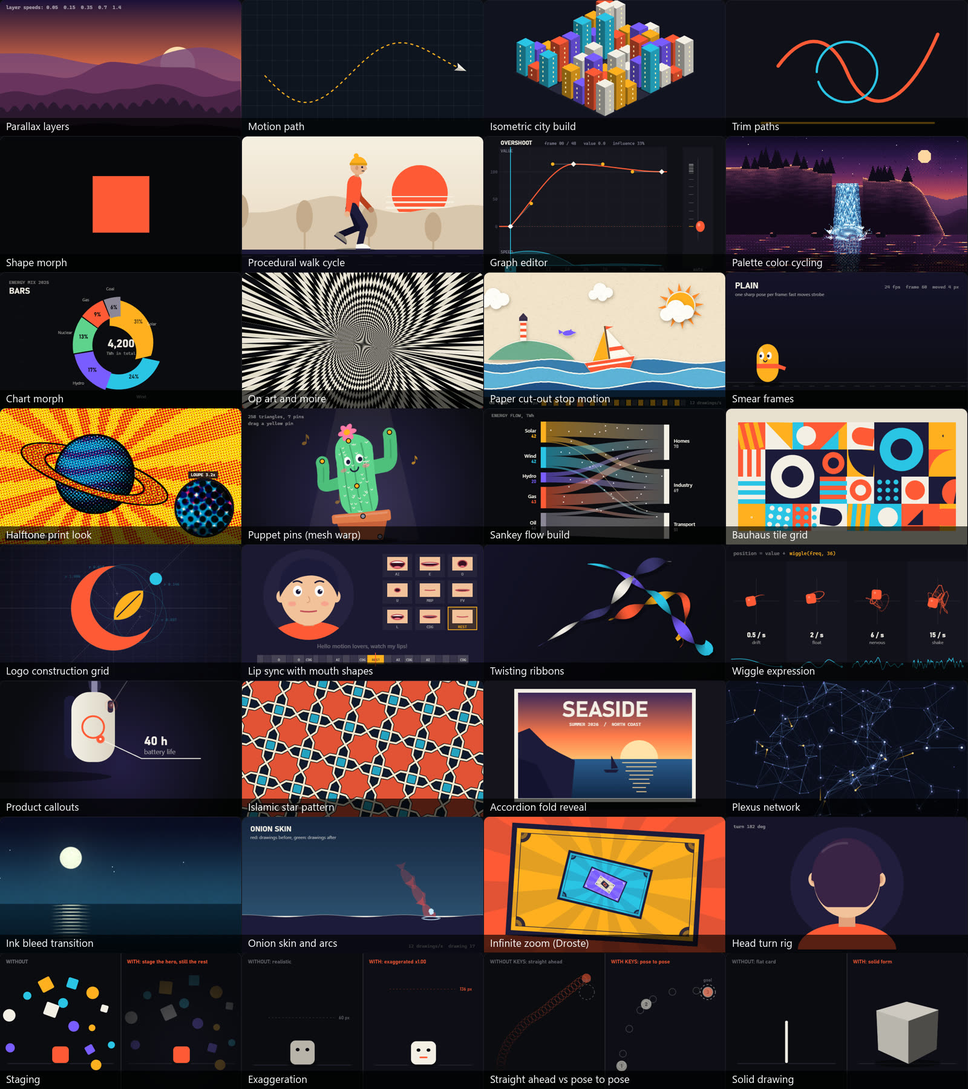
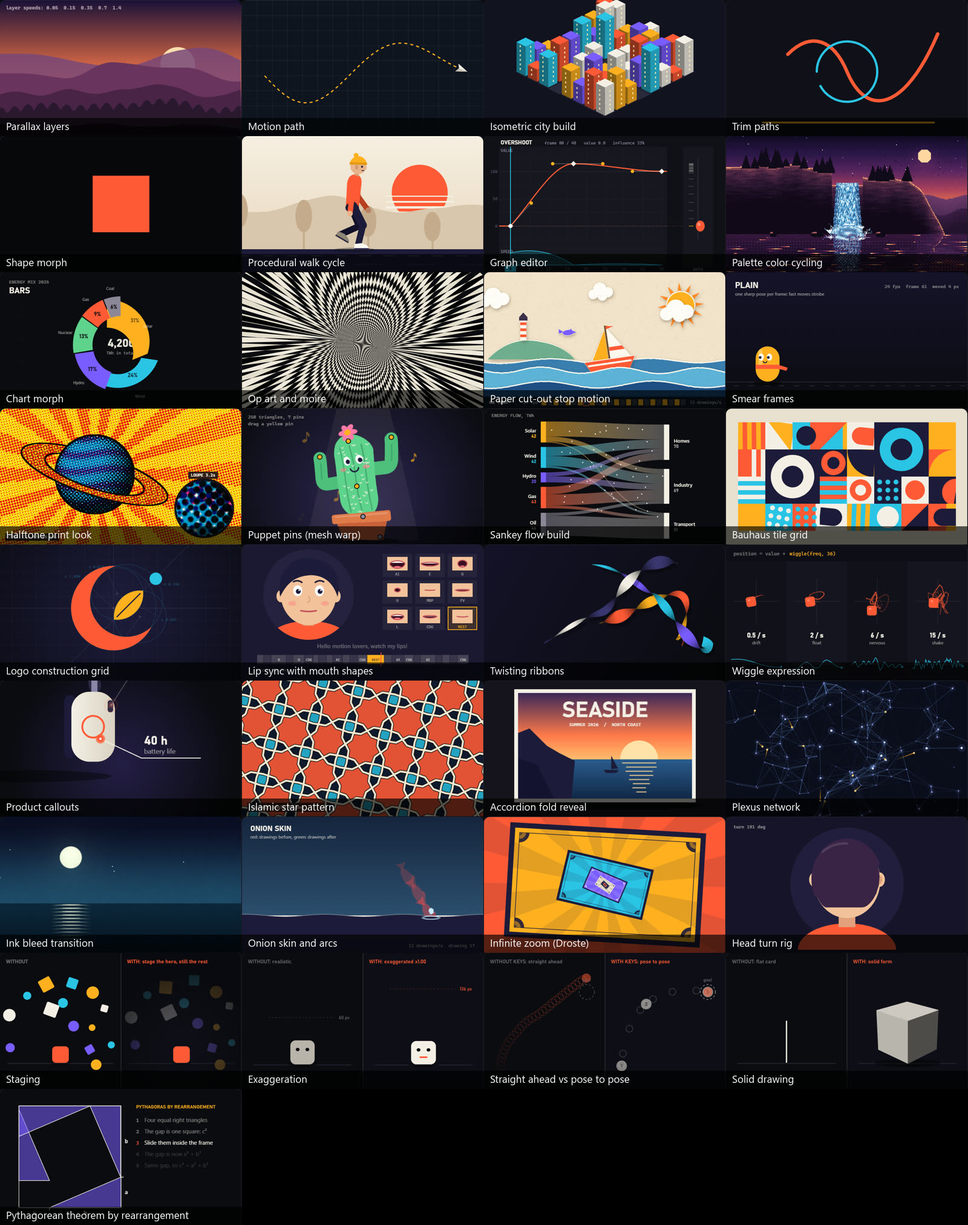
fix: audit the second set and add four more techniques
An audit of the second set found sound that kept playing off screen,
a listener leak on Replay, docs that missed the new principle cards,
and build output in source/scratch that git would pick up.

- Raw-sample synth and plucked-string cards stop and suspend their
  audio when they scroll out of view
- Ripple tank uses pointer capture instead of adding a window
  listener on every Replay
- New cards: Pythagorean proof by rearrangement, rotozoomer, dragon
  curve unfolding, Strandbeest leg linkage (332 techniques in total)
- README vocabulary lists staging, exaggeration, pose to pose and
  solid drawing, and the With vs without section links their cards
- .gitignore covers Rust and Go build output and renders in
  source/scratch, and the ruff cache

Checks: build_catalog, check_site (332 cards), tsc with zero errors,
ruff, and a runtime audit of 181 live cards for listener leaks, CPU
per frame and sound after Replay and scrolling away.

diff --git a/site/catalog/set3-mech.js b/site/catalog/set3-mech.js
@@ -1,0 +1,83 @@
+// Mechanisms in motion, solved by real kinematics (Canvas 2D, CPU).
+(function () {
+  const { C } = EX;
+  const W = 640, H = 360;
+
+  EX.add({
+    cat: 'sim', id: 'mc-strandbeest', title: 'Strandbeest leg linkage', aka: 'Theo Jansen linkage, holy numbers, walking mechanism, eleven-bar linkage', tool: 'Canvas 2D + circle-intersection kinematics', runs: 'CPU',
+    notice: 'One crank turns and two mirrored legs walk, using the lengths Theo Jansen found for his beach animals. Each joint is solved every frame as the crossing point of two circles, so nothing is keyframed. The coral curve is the true foot path: flat along the ground, then a lifted arc back.',
+    use: 'engineering explainers, kinetic art, robot and machine motion',
+    params: [{ key: 'speed', label: 'Crank speed', min: 0.1, max: 1.5, step: 0.05, value: 0.45, unit: ' rev/s' }, { key: 'crank', label: 'Crank length', min: 11, max: 17, step: 0.1, value: 15 }],
+    prompt: "A Theo Jansen Strandbeest leg linkage walking, solved with real kinematics from Jansen's holy numbers (crank length {crank}), the crank turning at {speed} rev/s, two mirrored legs plus a dim back pair, the foot path traced in coral, clean technical-illustration line style on a dark background.",
+    setup(stage, L) {
+      const g = stage.getContext('2d');
+      // Jansen's holy numbers (a, l, b, c, d, e, f, g, h, i, j, k); the crank length m comes from the slider.
+      const A = 38, LV = 7.8, LB = 41.5, LC = 39.3, LD = 40.1, LE = 55.8, LF = 39.4, LG = 36.7, LH = 65.7, LI = 49, LJ = 50, LK = 61.9;
+      const S = 2.4, OX = W / 2, OY = 112;
+      /** Both crossing points of circle (p, r1) and circle (q, r2). @returns {number[][]} */
+      const inter = (p, r1, q, r2) => {
+        const dx = q[0] - p[0], dy = q[1] - p[1], D = Math.hypot(dx, dy) || 1e-6, a = (r1 * r1 - r2 * r2 + D * D) / (2 * D);
+        const hh = Math.sqrt(Math.max(0, r1 * r1 - a * a)), mx = p[0] + a * dx / D, my = p[1] + a * dy / D;
+        return [[mx - hh * dy / D, my + hh * dx / D], [mx + hh * dy / D, my - hh * dx / D]];
+      };
+      const hi = s => (s[0][1] > s[1][1] ? s[0] : s[1]), lo = s => (s[0][1] < s[1][1] ? s[0] : s[1]), lf = s => (s[0][0] < s[1][0] ? s[0] : s[1]);
+      /** Solves one left-hand leg for crank angle th (y up, crank axle at the origin). */
+      const leg = (th, m) => {
+        const M = [m * Math.cos(th), m * Math.sin(th)], B = [-A, -LV];
+        const J = hi(inter(M, LJ, B, LB)), K = lo(inter(M, LK, B, LC)), E = lf(inter(B, LD, J, LE)), F = lf(inter(E, LF, K, LG)), P = lo(inter(F, LH, K, LI));
+        return { M, B, J, K, E, F, P };
+      };
+      /** Leg for crank angle th on side sx (-1 left, 1 right, mirrored about the axle). */
+      const legSide = (th, m, sx) => {
+        const q = leg(sx < 0 ? th : Math.PI - th, m);
+        if (sx > 0) for (const key in q) q[key] = [-q[key][0], q[key][1]];
+        return q;
+      };
+      const X = p => OX + p[0] * S, Y = p => OY - p[1] * S;
+      let th = 0, ground = 0, prevStance = null;
+      const drawLeg = (q, alpha, main) => {
+        g.globalAlpha = alpha;
+        g.fillStyle = 'rgba(43,196,230,0.12)';
+        for (const tri of [[q.B, q.J, q.E], [q.K, q.F, q.P]]) { g.beginPath(); tri.forEach((p, n) => (n ? g.lineTo(X(p), Y(p)) : g.moveTo(X(p), Y(p)))); g.closePath(); g.fill(); }
+        g.lineWidth = main ? 3 : 2; g.lineCap = 'round';
+        const bars = /** @type {[number[], number[], string][]} */ ([[q.M, q.J, C.amber], [q.M, q.K, C.amber], [q.B, q.J, C.cyan], [q.B, q.K, C.cyan], [q.B, q.E, C.cyan], [q.J, q.E, C.cyan], [q.E, q.F, C.cream], [q.K, q.F, C.cream], [q.F, q.P, C.cream], [q.K, q.P, C.cream]]);
+        for (const [p, r, col] of bars) { g.strokeStyle = col; g.beginPath(); g.moveTo(X(p), Y(p)); g.lineTo(X(r), Y(r)); g.stroke(); }
+        for (const p of [q.J, q.K, q.E, q.F]) { g.fillStyle = C.bg; g.strokeStyle = C.cream; g.lineWidth = 1.5; g.beginPath(); g.arc(X(p), Y(p), 3.5, 0, 7); g.fill(); g.stroke(); }
+        g.fillStyle = C.coral; g.beginPath(); g.arc(X(q.P), Y(q.P), main ? 5 : 4, 0, 7); g.fill();
+        g.globalAlpha = 1;
+      };
+      return (t, dt) => {
+        const m = L.p.crank;
+        th += Math.min(dt, 0.05) * L.p.speed * 2 * Math.PI;
+        g.fillStyle = C.bg; g.fillRect(0, 0, W, H);
+        // foot paths for the current crank length, and the ground under their lowest point
+        const path = []; let minY = 1e9;
+        for (let s = 0; s <= 180; s++) { const q = leg(s / 180 * 2 * Math.PI, m); path.push(q.P); minY = Math.min(minY, q.P[1]); }
+        const gy = Y([0, minY]) + 5;
+        // the stance foot is the lowest one: the ground moves with it, as if the machine walks
+        const legs = [[th + Math.PI, -1], [th + Math.PI, 1], [th, -1], [th, 1]].map(([a, sx]) => legSide(a, m, sx));
+        let st = 0; legs.forEach((q, n) => { if (q.P[1] < legs[st].P[1]) st = n; });
+        const sp = legs[st].P[0];
+        if (prevStance && prevStance[0] === st) ground += (sp - prevStance[1]) * S;
+        prevStance = [st, sp];
+        g.strokeStyle = 'rgba(244,239,230,0.35)'; g.lineWidth = 1.5; g.beginPath(); g.moveTo(0, gy); g.lineTo(W, gy); g.stroke();
+        g.strokeStyle = 'rgba(244,239,230,0.18)'; g.lineWidth = 1;
+        for (let x = ((ground % 24) + 24) % 24 - 24; x < W + 24; x += 24) { g.beginPath(); g.moveTo(x, gy); g.lineTo(x - 10, gy + 10); g.stroke(); }
+        g.setLineDash([4, 4]); g.strokeStyle = C.coral; g.lineWidth = 1.5;
+        for (const sx of [-1, 1]) { g.beginPath(); path.forEach((p, n) => { const px = OX + sx * p[0] * S, py = Y(p); n ? g.lineTo(px, py) : g.moveTo(px, py); }); g.stroke(); }
+        g.setLineDash([]);
+        drawLeg(legs[0], 0.3, false); drawLeg(legs[1], 0.3, false);
+        // frame: crank axle and the two fixed pivots
+        g.strokeStyle = C.violet; g.lineWidth = 4;
+        g.beginPath(); g.moveTo(X([-A, -LV]), Y([-A, -LV])); g.lineTo(X([0, 0]), Y([0, 0])); g.lineTo(X([A, -LV]), Y([A, -LV])); g.stroke();
+        g.strokeStyle = 'rgba(255,176,32,0.25)'; g.lineWidth = 1; g.beginPath(); g.arc(OX, OY, m * S, 0, 7); g.stroke();
+        drawLeg(legs[2], 1, true); drawLeg(legs[3], 1, true);
+        g.strokeStyle = C.amber; g.lineWidth = 4; g.beginPath(); g.moveTo(OX, OY); g.lineTo(X(legs[2].M), Y(legs[2].M)); g.stroke();
+        for (const p of [[-A, -LV], [A, -LV], [0, 0]]) { g.fillStyle = C.violet; g.beginPath(); g.arc(X(p), Y(p), 5, 0, 7); g.fill(); }
+        g.fillStyle = C.amber; g.beginPath(); g.arc(X(legs[2].M), Y(legs[2].M), 4, 0, 7); g.fill();
+        g.fillStyle = 'rgba(244,239,230,0.6)'; g.font = '12px ui-monospace, monospace';
+        g.fillText('crank ' + m.toFixed(1) + '   a 38  b 41.5  c 39.3  d 40.1  e 55.8  f 39.4  g 36.7  h 65.7  i 49  j 50  k 61.9', 14, 20);
+      };
+    },
+  });
+})();

diff --git a/site/catalog/set3-proofs.js b/site/catalog/set3-proofs.js
@@ -1,0 +1,78 @@
+// Visual math proofs in a calm explainer style (Canvas 2D, CPU).
+(function () {
+  const { C, seg, ease } = EX;
+  const W = 640, H = 360;
+  const SANS = '"Segoe UI", sans-serif', HEAD = 'Bahnschrift, "Segoe UI", sans-serif', MONO = '"Cascadia Mono", Consolas, monospace';
+  const fmt = v => String(Math.round(v * 100) / 100);
+
+  // Draws the numbered step list on the right; i is the active step.
+  function drawSteps(g, x, y, steps, i) {
+    g.textAlign = 'left'; g.textBaseline = 'middle';
+    steps.forEach((s, k) => {
+      g.globalAlpha = k === i ? 1 : k < i ? 0.5 : 0.18;
+      g.fillStyle = k === i ? C.coral : C.cream; g.font = '600 13px ' + MONO; g.fillText(String(k + 1), x, y + k * 30);
+      g.fillStyle = C.cream; g.font = '15px ' + SANS; g.fillText(s, x + 22, y + k * 30);
+    });
+    g.globalAlpha = 1;
+  }
+
+  EX.add({
+    cat: 'mg', id: 'vp-pythag', title: 'Pythagorean theorem by rearrangement', aka: 'visual proof, math explainer, a squared plus b squared, sliding triangles', tool: 'Canvas 2D', runs: 'CPU',
+    notice: 'Four copies of one right triangle sit in a square and leave a tilted gap of area c squared. The triangles slide to new spots inside the same frame, and the gap becomes two squares, a squared and b squared. The frame and the triangles never changed, so the two gaps are equal.',
+    use: 'math and science explainers, lesson intros, any "same parts, new arrangement" story',
+    params: [{ key: 'a', label: 'Leg a (b = 10 - a)', min: 1, max: 9, step: 0.5, value: 3 }],
+    prompt: 'A calm, 3Blue1Brown-style animated proof of the Pythagorean theorem on a near-black background: four equal right triangles (legs a = {a} and b = 10 - a) fill a square and leave a tilted c-squared gap, then slide one by one inside the same frame until the gap is an a-squared and a b-squared square. Numbered step captions on the right, soft colors, the equation with real numbers at the end, seamless loop.',
+    setup(cv, L) {
+      const g = cv.getContext('2d');
+      const S = 270, X0 = 50, Y0 = 45, P = 12;
+      const steps = ['Four equal right triangles', 'The gap is one square: c²', 'Slide them inside the frame', 'The gap is now a² + b²', 'Same gap, so c² = a² + b²'];
+      const px = (x, y) => [X0 + x, Y0 + S - y];
+      const poly = (pts, fill, stroke) => {
+        g.beginPath(); pts.forEach((p, i) => { const [x, y] = px(p[0], p[1]); i ? g.lineTo(x, y) : g.moveTo(x, y); }); g.closePath();
+        if (fill) { g.fillStyle = fill; g.fill(); } if (stroke) { g.strokeStyle = stroke; g.lineWidth = 1.5; g.stroke(); }
+      };
+      const label = (txt, x, y, col, size) => { const [sx, sy] = px(x, y); g.fillStyle = col; g.font = '600 ' + size + 'px ' + HEAD; g.textAlign = 'center'; g.textBaseline = 'middle'; g.fillText(txt, sx, sy); };
+      return (t) => {
+        const u = t % P, la = L.p.a, lb = 10 - la, a = la / 10 * S, b = S - a;
+        g.fillStyle = C.bg; g.fillRect(0, 0, W, H);
+        const fade = 1 - seg(u, 11, 11.8), cIn = seg(u, 1.2, 2) * (1 - seg(u, 3.2, 3.8)), abIn = seg(u, 6, 6.8);
+        g.globalAlpha = fade;
+        // gaps first, triangles on top
+        if (cIn > 0) { g.globalAlpha = fade * cIn; poly([[a, 0], [S, a], [b, S], [0, b]], 'rgba(43,196,230,0.35)', C.cyan); label('c²', S / 2, S / 2, C.cyan, 30); }
+        if (abIn > 0) {
+          g.globalAlpha = fade * abIn;
+          poly([[0, 0], [a, 0], [a, a], [0, a]], 'rgba(255,90,54,0.35)', C.coral); label('a²', a / 2, a / 2, C.coral, Math.max(14, Math.min(30, a * 0.4)));
+          poly([[a, a], [S, a], [S, S], [a, S]], 'rgba(255,176,32,0.3)', C.amber); label('b²', a + b / 2, a + b / 2, C.amber, Math.max(14, Math.min(30, b * 0.4)));
+        }
+        // the four triangles: corner, horizontal leg, vertical leg, shift to the second layout
+        const tris = [[0, 0, a, b, 0, a], [S, 0, -b, a, 0, 0], [S, S, -a, -b, -b, 0], [0, S, b, -a, a, -b]];
+        tris.forEach((d, i) => {
+          const m = ease.inOut(seg(u, 3.4 + i * 0.35, 4.6 + i * 0.35)), cx = d[0] + d[4] * m, cy = d[1] + d[5] * m;
+          g.globalAlpha = fade * seg(u, i * 0.2, i * 0.2 + 0.6);
+          poly([[cx, cy], [cx + d[2], cy], [cx, cy + d[3]]], 'rgba(122,92,255,0.55)', C.cream);
+        });
+        g.globalAlpha = fade;
+        g.strokeStyle = 'rgba(244,239,230,0.7)'; g.lineWidth = 2; g.strokeRect(X0, Y0, S, S);
+        // side labels: the bottom and right edges split into a and b in both layouts
+        g.globalAlpha = fade * 0.9;
+        label('a', a / 2, -14, C.cream, 16); label('b', a + b / 2, -14, C.cream, 16);
+        label('a', S + 14, a / 2, C.cream, 16); label('b', S + 14, a + b / 2, C.cream, 16);
+        g.fillStyle = C.cream; [[a, 0, 0], [S, a, 8]].forEach(q => { const [x, y] = px(q[0], q[1]); g.fillRect(x - 1, y - 1, q[2] ? 8 : 2, q[2] ? 2 : 8); });
+        if (u < 3.4) { g.globalAlpha = fade * seg(u, 0.6, 1.2) * (1 - seg(u, 3.0, 3.4)); label('c', a / 2 + 12, b / 2 + 12, C.cream, 16); }
+        // captions
+        g.globalAlpha = fade;
+        g.fillStyle = C.amber; g.font = '600 13px ' + HEAD; g.textAlign = 'left'; g.textBaseline = 'middle'; g.fillText('PYTHAGORAS BY REARRANGEMENT', 360, 48);
+        const si = u < 1.2 ? 0 : u < 3.3 ? 1 : u < 6 ? 2 : u < 8 ? 3 : 4;
+        g.save(); g.globalAlpha = fade; drawSteps(g, 360, 84, steps, si); g.restore();
+        const eq = seg(u, 8, 8.6) * fade;
+        if (eq > 0) {
+          g.globalAlpha = eq; g.fillStyle = C.cream; g.font = '15px ' + MONO; g.textAlign = 'left';
+          g.fillText('a = ' + fmt(la) + ', b = ' + fmt(lb), 360, 258);
+          g.fillStyle = C.cyan; g.fillText('c² = ' + fmt(la * la + lb * lb), 360, 286);
+          g.fillStyle = C.cream; g.fillText('   = ' + fmt(la * la) + ' + ' + fmt(lb * lb), 360, 310);
+        }
+        g.globalAlpha = 1;
+      };
+    },
+  });
+})();

diff --git a/site/catalog/set3-demoscene.js b/site/catalog/set3-demoscene.js
@@ -1,0 +1,50 @@
+// Demoscene effects written from scratch: 1990s screen tricks, each a pixel loop into a low-res
+// ImageData that is scaled up crisp. Every card keeps its whole effect in one setup().
+(function () {
+  const { C } = EX;
+  const W = 640, H = 360, RW = 320, RH = 180;
+  // Low-res buffer plus a scanline overlay; blit() scales the buffer to the stage with no smoothing.
+  const lowres = g => {
+    const oc = document.createElement('canvas'); oc.width = RW; oc.height = RH; const og = oc.getContext('2d');
+    const img = og.createImageData(RW, RH), px = new Uint32Array(img.data.buffer);
+    const sl = document.createElement('canvas'); sl.width = W; sl.height = H; const sg = sl.getContext('2d');
+    sg.fillStyle = 'rgba(0,0,0,0.22)'; for (let y = 1; y < H; y += 2) sg.fillRect(0, y, W, 1);
+    const blit = () => { og.putImageData(img, 0, 0); g.imageSmoothingEnabled = false; g.drawImage(oc, 0, 0, W, H); g.drawImage(sl, 0, 0); };
+    return { px, blit };
+  };
+
+  // ---------------- rotozoomer ----------------
+  EX.add({
+    cat: 'scratch', id: 'ds-rotozoom', title: 'Rotozoomer', aka: 'rotozoom, rotating zooming texture, affine texture mapping, Amiga and PC demo effect', tool: 'Plain JavaScript writing pixels into an ImageData (no WebGL)', runs: 'CPU',
+    notice: 'A small 128 x 128 tile spins and zooms across the whole screen with no 3D at all. For each screen pixel the code runs the rotation backwards to find which texel lands there, and since that mapping is linear, moving one pixel right just adds the same two numbers to the texture position. Wrapping the coordinates with a bit mask makes the tile repeat forever.',
+    use: 'retro intros and loading screens, music visuals, teaching affine transforms and inverse mapping',
+    params: [{ key: 'spin', label: 'Spin speed', min: 0, max: 3, step: 0.05, value: 1 }, { key: 'zoom', label: 'Zoom swing', min: 0, max: 2, step: 0.05, value: 1 }],
+    prompt: 'Write a classic demoscene rotozoomer from scratch in plain JavaScript: draw a seamless 128x128 tile once (navy checker, coral disc, amber ring, cream letters), then every frame fill a 320x180 ImageData by inverse mapping each screen pixel through a rotation and scale back into the tile, stepping the texture position by a constant per pixel and wrapping with a bit mask. Spin speed {spin}, zoom swing {zoom} (scale breathing in and out on a sine), a slow drifting center, scaled up 2x with no smoothing and faint scanlines.',
+    setup(cv, L) {
+      const g = cv.getContext('2d');
+      const { px, blit } = lowres(g);
+      // Tile: drawn once, read back as packed RGBA words. The checker period divides 128, so it wraps.
+      const TS = 128, tc = document.createElement('canvas'); tc.width = TS; tc.height = TS; const tg = tc.getContext('2d', { willReadFrequently: true });
+      for (let y = 0; y < TS; y += 16) for (let x = 0; x < TS; x += 16) { tg.fillStyle = ((x + y) / 16) & 1 ? '#2a2450' : C.navy; tg.fillRect(x, y, 16, 16); }
+      tg.fillStyle = C.cyan; for (const [x, y] of [[0, 0], [TS, 0], [0, TS], [TS, TS]]) { tg.beginPath(); tg.moveTo(x, y - 10); tg.lineTo(x + 10, y); tg.lineTo(x, y + 10); tg.lineTo(x - 10, y); tg.fill(); }
+      tg.fillStyle = C.coral; tg.beginPath(); tg.arc(64, 64, 38, 0, Math.PI * 2); tg.fill();
+      tg.strokeStyle = C.amber; tg.lineWidth = 6; tg.beginPath(); tg.arc(64, 64, 46, 0, Math.PI * 2); tg.stroke();
+      tg.fillStyle = C.cream; tg.font = '700 34px Bahnschrift, Segoe UI'; tg.textAlign = 'center'; tg.textBaseline = 'middle'; tg.fillText('MS', 64, 66);
+      const tex = new Uint32Array(tg.getImageData(0, 0, TS, TS).data.buffer);
+      const OFF = 1 << 20;   // keeps texture coordinates positive so |0 and the mask never flip at zero
+      let ang = 0;
+      return (t, dt) => {
+        ang += (dt || 0) * L.p.spin * 0.7;
+        const s = 0.18 + L.p.zoom * 0.55 * (1 + Math.sin(t * 0.6));   // texels per screen pixel
+        const ca = Math.cos(ang) * s, sa = Math.sin(ang) * s;
+        const cu = OFF + 64 + 220 * Math.sin(t * 0.21), cv2 = OFF + 64 + 160 * Math.sin(t * 0.17 + 1);
+        for (let y = 0, k = 0; y < RH; y++) {
+          const dy = y - RH / 2;
+          let u = cu - RW / 2 * ca - dy * sa, v = cv2 - RW / 2 * sa + dy * ca;
+          for (let x = 0; x < RW; x++, k++, u += ca, v += sa) px[k] = tex[((v | 0) & 127) << 7 | ((u | 0) & 127)];
+        }
+        blit();
+      };
+    },
+  });
+})();

diff --git a/site/catalog/set3-gen.js b/site/catalog/set3-gen.js
@@ -1,0 +1,52 @@
+// Generative-art classics for the catalog (Canvas 2D, CPU): the paper-folding dragon curve.
+(function () {
+  const { C } = EX;
+  const W = 640, H = 360;
+  const smooth = x => x * x * (3 - 2 * x);
+
+  EX.add({
+    cat: 'sim', id: 'gn-dragonfold', title: 'Dragon curve unfolding', aka: 'Heighway dragon, paper-folding curve, Jurassic Park fractal', tool: 'Canvas 2D', runs: 'CPU',
+    notice: 'Fold a strip of paper in half again and again, then open every fold to a right angle: you get the dragon curve. Here each step copies the whole line and swings the copy 90 degrees around its end point. Each color is one fold, and the camera zooms out to keep the growing curve in frame.',
+    use: 'fractal intros, math explainers, "one rule, repeated" stories',
+    params: [{ key: 'folds', label: 'Folds', min: 4, max: 14, step: 1, value: 12 }, { key: 'speed', label: 'Folds per second', min: 0.2, max: 3, step: 0.1, value: 1.2 }],
+    prompt: 'Heighway dragon curve that builds itself fold by fold: start from one line, then {folds} times copy the whole curve and swing the copy 90 degrees around its end point with an eased rotation, {speed} folds per second. Color each fold differently (coral, amber, cream, cyan, violet), zoom the camera out smoothly to keep the curve framed, hold, then repeat.',
+    setup(stage, L) {
+      const g = stage.getContext('2d'); const MAX = 14, n = 1 << MAX;
+      // the finished curve; after k folds the curve is exactly its first 2^k + 1 points
+      const px = new Float64Array(n + 1), py = new Float64Array(n + 1);
+      px[1] = 1;
+      for (let k = 0; k < MAX; k++) {
+        const m = 1 << k, ex = px[m], ey = py[m];
+        for (let j = 1; j <= m; j++) { const dx = px[m - j] - ex, dy = py[m - j] - ey; px[m + j] = ex - dy; py[m + j] = ey + dx; }
+      }
+      const cols = [C.coral, C.amber, C.cream, C.cyan, C.violet];
+      const qx = new Float64Array(n + 1), qy = new Float64Array(n + 1);
+      let clock = 0;
+      return (t, dt) => {
+        clock += dt * L.p.speed;
+        const folds = L.p.folds | 0, cyc = folds + 2.5, ph = clock % cyc;
+        let k = Math.floor(ph), th = Math.PI / 2 * smooth(ph - k);
+        if (k >= folds) { k = folds - 1; th = Math.PI / 2; }
+        const m = 1 << k, ex = px[m], ey = py[m], co = Math.cos(th), si = Math.sin(th);
+        let x0 = Infinity, x1 = -Infinity, y0 = Infinity, y1 = -Infinity;
+        for (let i = 0; i <= m; i++) { qx[i] = px[i]; qy[i] = py[i]; }
+        for (let j = 1; j <= m; j++) { const dx = px[m - j] - ex, dy = py[m - j] - ey; qx[m + j] = ex + dx * co - dy * si; qy[m + j] = ey + dx * si + dy * co; }
+        for (let i = 0; i <= 2 * m; i++) { const x = qx[i], y = qy[i]; if (x < x0) x0 = x; if (x > x1) x1 = x; if (y < y0) y0 = y; if (y > y1) y1 = y; }
+        const sc = Math.min((W - 80) / Math.max(1e-6, x1 - x0), (H - 70) / Math.max(1e-6, y1 - y0), 220);
+        const ox = W / 2 - (x0 + x1) / 2 * sc, oy = H / 2 + 6 - (y0 + y1) / 2 * sc;
+        g.fillStyle = C.bg; g.fillRect(0, 0, W, H);
+        g.lineCap = 'round'; g.lineJoin = 'round'; g.lineWidth = Math.max(1, Math.min(5, sc * 0.3));
+        // segments made by fold f are indices 2^f .. 2^(f+1) - 1, so each fold is one path
+        for (let f = -1; f <= k; f++) {
+          const a = f < 0 ? 0 : 1 << f, b = f < 0 ? 1 : 1 << (f + 1);
+          g.strokeStyle = cols[(f + 1) % cols.length]; g.beginPath(); g.moveTo(ox + qx[a] * sc, oy + qy[a] * sc);
+          for (let i = a + 1; i <= b; i++) g.lineTo(ox + qx[i] * sc, oy + qy[i] * sc);
+          g.stroke();
+        }
+        g.fillStyle = C.cream; g.beginPath(); g.arc(ox + ex * sc, oy + ey * sc, 4, 0, 6.283); g.fill();
+        g.font = '13px ui-monospace, monospace'; g.fillStyle = C.cream;
+        g.fillText('fold ' + (k + 1) + ' of ' + folds + '   ' + (2 * m) + ' segments', 16, 24);
+      };
+    },
+  });
+})();

diff --git a/index.html b/index.html
@@ -149,7 +149,7 @@
 
 <section class="sec" id="compare">
   <h2><span class="n">03</span>With vs without</h2>
-  <p class="lead">Each pair shows the same animation twice. Left: without the idea. Right: what changes when you put those words in your prompt.</p>
+  <p class="lead">Each pair shows the same animation twice. Left: without the idea. Right: what changes when you put those words in your prompt. Four more principles have their own with-vs-without cards in the catalog: <a href="#ex-p2-staging">staging</a>, <a href="#ex-p2-exaggeration">exaggeration</a>, <a href="#ex-p2-pose-to-pose">pose to pose</a> and <a href="#ex-p2-solid-drawing">solid drawing</a>.</p>
   <div class="cmpgrid">
     <div class="demo"><div class="head"><h3>Timing</h3><p class="dim">How long a move takes. Short feels snappy, long feels calm or heavy.</p></div><div class="stage"><canvas id="cmp-timing" width="960" height="240"></canvas></div><div class="foot"><div class="say">Snappy timing: 250 ms moves.</div></div></div>
     <div class="demo"><div class="head"><h3>Hold</h3><p class="dim">A pause where nothing moves, so people can read. Text needs about 1 second per 4 to 5 words. The bar shows in, hold and out.</p></div><div class="stage"><canvas id="cmp-hold" width="960" height="240"></canvas></div><div class="foot"><div class="say">Hold the title for 1.5 s before it exits.</div></div></div>
@@ -590,6 +590,10 @@ Music: 120 BPM, scene changes every 4 bars, impact on the ball hit. Test frames 
 <script src="site/catalog/scratch.js"></script>
 <script src="site/catalog/set2-webgpu.js"></script>
 <script src="site/catalog/set2-principles.js"></script>
+<script src="site/catalog/set3-proofs.js"></script>
+<script src="site/catalog/set3-demoscene.js"></script>
+<script src="site/catalog/set3-gen.js"></script>
+<script src="site/catalog/set3-mech.js"></script>
 <!-- LIBS-SCRIPTS-START -->
 <script src="site/vendor/three-demo.js"></script>
 <script src="site/vendor/pixi.min.js"></script>

diff --git a/site/catalog/scratch.js b/site/catalog/scratch.js
@@ -684,6 +684,8 @@
       };
       st.play = () => { if (!st.ac) st.ac = new AudioContext(); st.ac.resume(); start(0); };
       st.stop = () => { if (st.src) { st.src.stop(); st.src = null; } };
+      // The looping sound stops when the card scrolls out of view.
+      if (!cv.dataset.soundWatch) { cv.dataset.soundWatch = '1'; new IntersectionObserver(es => { if (!es[0].isIntersecting) { L.state.stop(); if (L.state.ac) L.state.ac.suspend(); } }).observe(cv); }
       const key = () => [L.p.cut, L.p.res, L.p.env, L.p.dec].join();
       let changedAt = -1, pend = '';
       render(); rendered = key();
@@ -1227,6 +1229,8 @@
       };
       st.play = () => { if (!st.ac) st.ac = new AudioContext(); st.ac.resume(); start(0); };
       st.stop = () => { if (st.src) { st.src.stop(); st.src = null; } };
+      // The looping sound stops when the card scrolls out of view.
+      if (!cv.dataset.soundWatch) { cv.dataset.soundWatch = '1'; new IntersectionObserver(es => { if (!es[0].isIntersecting) { L.state.stop(); if (L.state.ac) L.state.ac.suspend(); } }).observe(cv); }
       const key = () => L.p.decay + ',' + L.p.bright; let rendered = key(), pend = '', changedAt = 0; render();
       const COLS = [C.coral, C.amber, C.cream, C.cyan, C.violet, C.coral, C.amber, C.cyan], X0 = 96, X1 = 600;
       return t => {

diff --git a/site/catalog/set2-gpu2.js b/site/catalog/set2-gpu2.js
@@ -143,9 +143,9 @@
       const st = (L.state = { mode: 0, view: 0, set: m => { st.mode = m; G.draw(clear, pp.write); pp.swap(); G.draw(clear, pp.write); pp.swap(); G.draw(clear, en.write); en.swap(); G.draw(clear, en.write); en.swap(); } });
       let B = [70, 90 + 20], drag = false, ph = 0, acc = 0;
       const toGrid = e => { const r = cv.getBoundingClientRect(); return [EX.clamp01((e.clientX - r.left) / r.width) * SW, (1 - EX.clamp01((e.clientY - r.top) / r.height)) * SH]; };
-      cv.addEventListener('pointerdown', e => { if (st.mode !== 1) return; drag = true; B = toGrid(e); });
+      cv.addEventListener('pointerdown', e => { if (st.mode !== 1) return; drag = true; B = toGrid(e); cv.setPointerCapture(e.pointerId); });
       cv.addEventListener('pointermove', e => { if (drag) B = toGrid(e); });
-      window.addEventListener('pointerup', () => { drag = false; });
+      cv.addEventListener('pointerup', () => { drag = false; });
       st.set(0);
       return (t, dt) => {
         const geo = { uMode: st.mode, uSep: L.p.sep, uLam: L.p.lam, uB: drag || st.mode !== 1 ? B : [70 + Math.sin(t * 0.4) * 30, 90 + L.p.sep * 0.5 + Math.sin(t * 0.27) * 10] };

diff --git a/README.md b/README.md
@@ -77,6 +77,10 @@ These are the words motion designers use. In `index.html` each one runs live, an
 | Beat sync | Changes land on the music beat (120 BPM = 0.5 s per beat) | "every cut lands on the beat at 120 BPM" |
 | Seamless loop | The last frame flows into the first | "seamless 8 s loop" |
 | Parallax | Near layers move faster than far ones | "three-layer parallax as the camera slides" |
+| Staging | One clear action at a time; everything else calmer | "stage the hero: dim and still the background while it moves" |
+| Exaggeration | Push a move past reality so it reads | "exaggerate the jump, a big stretch and a hard landing squash" |
+| Pose to pose | Key poses first, then the frames between them | "block the key poses first, then ease the in-betweens" |
+| Solid drawing | Shapes with volume, weight and perspective | "give it volume: three visible faces and a contact shadow" |
 
 | Follow-through | Secondary motion | Arcs |
 |---|---|---|
@@ -179,7 +183,7 @@ From the second set, which added the section "Built from scratch" (renderers, so
 The full list below is generated from the same registry the page uses (`scripts/build_readme.py`), so it always matches the site.
 
 <!-- CATALOG:START -->
-**328 techniques**: 261 run live in the page (222 with sliders), 67 are rendered clips.
+**332 techniques**: 265 run live in the page (226 with sliders), 67 are rendered clips.
 
 
 ### The reel, scene by scene (9)
@@ -241,7 +245,7 @@ The full list below is generated from the same registry the page uses (`scripts/
 | [Rack focus type](index.html#ex-t2-rackfocus) | Canvas 2D (per-layer blur from a thin-lens formula, drawn bokeh discs, parallax) | CPU | Rack focus title: three layers of type at different depths (a huge coral "FOCUS" close to the lens, "on what matters" in cream in the middle, a far wall of small grey words with warm city lights), slow lateral camera drift with parallax, the focus pulls near, middle, far and back with eased holds, blur per layer from the thin-lens circle of confusion (aperture 1), background lights bloom into round bokeh discs when out of focus, small focus-distance readout. |
 | [Ransom-note collage](index.html#ex-t2-ransom) | Canvas 2D (pre-cut letter sprites, stepped time at 12 fps, boil jitter) | CPU | Ransom-note collage: "MAKE IT MOVE" built from letters cut out of magazines, each on its own scrap with a different typeface, weight, color and slight tilt, slapped onto off-white paper one by one with a tiny scale-down settle, animated on stepped time at 12 fps like stop motion, every scrap boils with small random jitter on each step, soft drop shadows, then swept off and rebuilt, 7 s loop. |
 
-### 2D motion graphics (32)
+### 2D motion graphics (33)
 
 ![2D motion graphics](media/readme/poster-mg.jpg)
 
@@ -279,6 +283,7 @@ The full list below is generated from the same registry the page uses (`scripts/
 | [Exaggeration](index.html#ex-p2-exaggeration) | Canvas 2D | CPU | Exaggeration demo, 640x360 split screen on a near-black background. A cream block character with two dot eyes jumps in place every 2.4 s. Left half: a realistic jump, small crouch, 60 px high, almost no squash. Right half: the same timing pushed by 1: deep anticipation crouch, stretch along the motion in the air, a higher jump and a big springy squash on landing. Thin tick lines mark each apex height. Bahnschrift labels, seamless loop. |
 | [Straight ahead vs pose to pose](index.html#ex-p2-pose-to-pose) | Canvas 2D | CPU | Straight ahead versus pose to pose demo, 640x360 split screen on a near-black background, a dashed goal ring in each half. Left half, straight ahead: a coral ball lays down 30 onion-skin frames one after another, each frame turned a little at random from the last, so the arc wanders and misses the goal differently every loop. Right half, pose to pose: 3 numbered cream key poses pop in first along a planned arc, then eased in-betweens fill the gaps, then the ball plays through and lands on the goal. Bahnschrift labels, 4.5 s loop. |
 | [Solid drawing](index.html#ex-p2-solid-drawing) | Canvas 2D (3D projection) | CPU | Solid drawing demo, 640x360 split screen on a near-black background. A cream box makes a quarter turn every 2.4 s with ease in-out and a hold. Left half: a flat card fakes the turn by squashing its width to a sliver. Right half: a real cube projected in 3D with a 22 deg camera tilt, three faces shaded by one upper-left light, and a soft contact shadow. Bahnschrift labels, seamless loop. |
+| [Pythagorean theorem by rearrangement](index.html#ex-vp-pythag) | Canvas 2D | CPU | A calm, 3Blue1Brown-style animated proof of the Pythagorean theorem on a near-black background: four equal right triangles (legs a = 3 and b = 10 - a) fill a square and leave a tilted c-squared gap, then slide one by one inside the same frame until the gap is an a-squared and a b-squared square. Numbered step captions on the right, soft colors, the equation with real numbers at the end, seamless loop. |
 
 ### App and web UI motion (32)
 
@@ -319,7 +324,7 @@ The full list below is generated from the same registry the page uses (`scripts/
 | [Form field micro-interactions](index.html#ex-ui2-fields) | DOM + JavaScript (springs driven by input state) | WEB | Form micro-interactions: floating labels rise 20 px and scale to 0.78 on focus with a spring; a 2 px underline grows from the click x position with scaleX; invalid email shakes (decaying sine, 8 px) and slides a hint down on blur, valid email draws a check with stroke-dashoffset; a 4-bar password meter fills with a 60 ms stagger, coral to amber to green; a bio counter ring fills to the 40 character limit, turns amber at 80% and coral past it. |
 | [Lightbox with drag to dismiss](index.html#ex-ui2-lightbox) | Pointer events + JavaScript (shared element, gesture-driven progress, springs) | WEB | Photo lightbox: on tap the thumbnail animates from its grid rect to a 280 px centred viewer (shared element, spring) while a black backdrop fades to 85%. Dragging the open photo moves it with the pointer, scales it down by distance (up to 40%) and fades the backdrop by distance; on release, if it moved more than 90 px or faster than 700 px/s, animate it back into its original cell, otherwise spring it back to the centre. Hide the source cell while the photo is out. |
 
-### Simulation and generative art (55)
+### Simulation and generative art (57)
 
 ![Simulation and generative art](media/readme/poster-sim.jpg)
 
@@ -380,6 +385,8 @@ The full list below is generated from the same registry the page uses (`scripts/
 | [Hilbert curve unfolding](index.html#ex-a2-hilbert) | Canvas 2D (Hilbert index to x, y) | CPU | Hilbert curve unfolding from order 1 to order 6 in a 320 px square on near-black: order 1 draws on, then each deeper order morphs out of the previous one (every point slides from its parent square to its own quarter with an ease-in-out and a wave of delay along the line) and holds briefly; line width shrinks with the cell size, a coral, amber, cyan, violet gradient runs along the line. A big order number flips on the left, cell count and length on the right; a bright comet runs the full curve, then everything folds back to order 1 and undraws. |
 | [Minimum spanning tree constellations](index.html#ex-a2-mst) | Canvas 2D + D3 (d3-delaunay for candidate edges) | CPU | Kruskal's minimum spanning tree as a night-sky constellation, a 14 s loop: 170 twinkling stars in five loose groups, candidate links from a Delaunay triangulation checked from shortest to longest at a rate that doubles every second; kept links glow in their group's color and the smaller group's stars blend to the larger group's color, links that would close a loop flash red and vanish. When the tree is complete, the longest links snap one by one with a white spark until 5 clusters remain, each recolored. Mono HUD with links kept, links skipped and total length. |
 | [Wireworld circuit board](index.html#ex-a2-wireworld) | Canvas 2D (cellular automaton on a typed-array grid) | CPU | Wireworld cellular automaton as an animated circuit board, 160 x 90 cells at 4 px: five clock loops of different lengths on the left each hold one circulating electron and emit a pulse per lap into procedurally routed PCB traces (straight runs with 45-degree bends, branches, round pads drawn at the ends, traces never touch so no feedback loops form). Wire cells dim violet, electron heads white, tails amber, a blurred additive glow under the electrons, 2 generations per frame. Mono HUD with the generation count and live electrons. |
+| [Dragon curve unfolding](index.html#ex-gn-dragonfold) | Canvas 2D | CPU | Heighway dragon curve that builds itself fold by fold: start from one line, then 12 times copy the whole curve and swing the copy 90 degrees around its end point with an eased rotation, 1.2 folds per second. Color each fold differently (coral, amber, cream, cyan, violet), zoom the camera out smoothly to keep the curve framed, hold, then repeat. |
+| [Strandbeest leg linkage](index.html#ex-mc-strandbeest) | Canvas 2D + circle-intersection kinematics | CPU | A Theo Jansen Strandbeest leg linkage walking, solved with real kinematics from Jansen's holy numbers (crank length 15), the crank turning at 0.45 rev/s rev/s, two mirrored legs plus a dim back pair, the foot path traced in coral, clean technical-illustration line style on a dark background. |
 
 ### GPU shaders (48)
 
@@ -566,7 +573,7 @@ The full list below is generated from the same registry the page uses (`scripts/
 | [3D video wall fly-in](index.html#ex-clip-video-wall) (clip) | Python (NumPy pinhole camera, OpenCV warpPerspective) fed by FFmpeg | CPU | Build a 3D video wall from my clips without a 3D engine, 8 s 1280x720: 27 playing 16:9 cards in 3 rows on the inside of a cylinder (radius 6, 17 degrees apart), a pinhole camera that trucks sideways with a slow yaw, then eases into the center card until it fills the frame exactly and that clip plays at full resolution. Warp each clip with cv2.warpPerspective onto its projected corners, draw far to near, depth fog, staggered fade-up, thin card outlines, faint floor reflection, a label that fades before the fly-in. |
 | [Auto match cuts on a circle](index.html#ex-clip-match-cut) (clip) | OpenCV (HoughCircles, warpAffine) + NumPy, fed by FFmpeg | CPU | Make an auto match-cut montage, 7 s 1280x720: for each of my 7 shots find the round subject in every frame with cv2.HoughCircles (search radius per shot, nearest to the last hit, smoothed over 5 frames), order the shots from small circle to big, and warp each frame so its circle sits at the screen center with a virtual radius that grows log-linearly through each shot's own radius. Hard cuts every 26 frames, a thin coral guide ring with ticks that flashes at each cut, label with shot name, detected radius and scale. |
 
-### Built from scratch (21)
+### Built from scratch (22)
 
 ![Built from scratch](media/readme/poster-scratch.jpg)
 
@@ -586,6 +593,7 @@ The full list below is generated from the same registry the page uses (`scripts/
 | [2D light and shadow engine](index.html#ex-x-shadows) | Plain JavaScript ray casting to segment corners + Canvas 2D (additive light) | CPU | Write a 2D light and shadow engine from scratch in plain JavaScript: walls as line segments (a frame, rotating squares and triangles, a few slabs), visibility polygons built by casting rays at every segment corner and 0.0001 rad to each side, sorted by angle. Three lights (coral, cyan, amber) drift on Lissajous paths; each light is drawn as three offset visibility polygons (10 px apart) filled with a radial glow of reach 340 px, blended additively, walls drawn dark with a lit rim on top. A debug view draws one light's rays and polygon outline. |
 | [Plucked-string model](index.html#ex-x-strings) | Plain JavaScript physical model into a Float32Array, played as a Web Audio AudioBuffer | CPU | Write a Karplus-Strong plucked-string harp from scratch in plain JavaScript: 8 strings tuned to A minor pentatonic from A2 to D4, each a delay line filled with low-passed noise (brightness 0.6) on a pluck and fed back through a two-sample average times 0.997. Render a 7.2 s arpeggio loop sample by sample into a Float32Array with a light feedback echo and play it as a looping AudioBuffer after a "Play sound" click. Draw each string as its own delay line laid along a horizontal string with fixed ends, glowing with its energy, a flash where it is plucked, and re-render when a slider moves. |
 | [Tiny 2D game engine](index.html#ex-x-platformer) | Plain JavaScript (tile map, collision, camera, sprites) + Canvas 2D at 320 x 180 | CPU | Write a tiny 2D platformer engine from scratch in plain JavaScript, rendered at 320 x 180 and scaled 2x with crisp pixels: a generated 16 px tile map (grass ground with dirt, gaps up to 3 tiles, steps up to 2 tiles, floating brick platforms with coins), axis-separated tile collision, gravity, an auto-running hero at 95 px/s with a jump of 300 px/s that jumps when a wall or gap is one tile ahead, coins with a sparkle and a counter, a smoothed camera with look-ahead, three parallax layers, squash on landing and stretch on take-off, and a debug view with tile grid, hitboxes and the look-ahead probes. Loop back to the start when the level ends. |
+| [Rotozoomer](index.html#ex-ds-rotozoom) | Plain JavaScript writing pixels into an ImageData (no WebGL) | CPU | Write a classic demoscene rotozoomer from scratch in plain JavaScript: draw a seamless 128x128 tile once (navy checker, coral disc, amber ring, cream letters), then every frame fill a 320x180 ImageData by inverse mapping each screen pixel through a rotation and scale back into the tile, stepping the texture position by a constant per pixel and wrapping with a bit mask. Spin speed 1, zoom swing 1 (scale breathing in and out on a sine), a slow drifting center, scaled up 2x with no smoothing and faint scanlines. |
 | [Liquid hourglass (FLIP solver in Go)](index.html#ex-clip-go-flip-hourglass) (clip) | Go with the standard library only: FLIP solver on a MAC grid, rotating-frame forces, metaball liquid renderer | CPU | Write a 2D FLIP liquid solver from scratch in Go (standard library only) and render 8 s at 1280x720 30 fps: a glass hourglass on a dark backdrop holds a cyan layer under a lighter coral layer, then turns over twice with eased half turns. Simulate in the glass frame: gravity rotates, add Coriolis, centrifugal and Euler forces, the glass is a signed distance function, 27k particles, 60 to 80 pressure iterations, drift correction, 88 percent FLIP, slight buoyancy so coral rises through cyan. Render particles as metaballs with depth shading from a distance transform, rim light, specular, marbled dye, spray droplets, coral end caps and cream pillars. |
 | [How a font becomes pixels (TrueType rasterizer)](index.html#ex-clip-rust-font-rasterizer) (clip) | Rust with the standard library only: TrueType parser (cmap, loca, glyf) and a signed-area coverage rasterizer | CPU | Write a TrueType rasterizer from scratch in Rust (std only) and use it to render an 8 s 1280x720 30 fps explainer: parse georgia.ttf (cmap format 4, loca, glyf with flags, implied on-curve midpoints), take the ampersand, then animate four steps with labels drawn by the same rasterizer from bahnschrift.ttf: 1 points pop in with overshoot in contour order (cream dots on the curve, coral squares off it) with a faint control polygon, 2 the quadratic curves trim on in cyan, 3 a coral scanline sweeps down, marking crossings and amber inside spans (nonzero winding) while the cream fill appears above it, 4 the outline fades and a magnified 34x34 grid of the glyph at text size fills row by row with its coverage values, plus the actual-size glyph. Signed-area accumulation coverage, dark background. |
 | [Diffraction starbursts from a hand-written FFT](index.html#ex-clip-rust-fourier-diffraction) (clip) | Rust with the standard library only: radix-2 FFT, 2D Fourier transform, 12-wavelength spectral scaling | CPU | Write a Fourier optics renderer from scratch in Rust (std threads only, own radix-2 FFT) and render 8 s at 1280x720 30 fps: a 512x512 aperture mask morphs (blended signed distances, eased) from a circle to a hexagon, a square, a triangle and a five-slit grating while turning slowly. Each frame, take the 2D FFT, shift it, and sample the intensity at 12 wavelengths from 420 to 680 nm, each scaled by its wavelength, summed to RGB. Log tone map, near-black background, the aperture shown as a cream inset in the lower left. |
